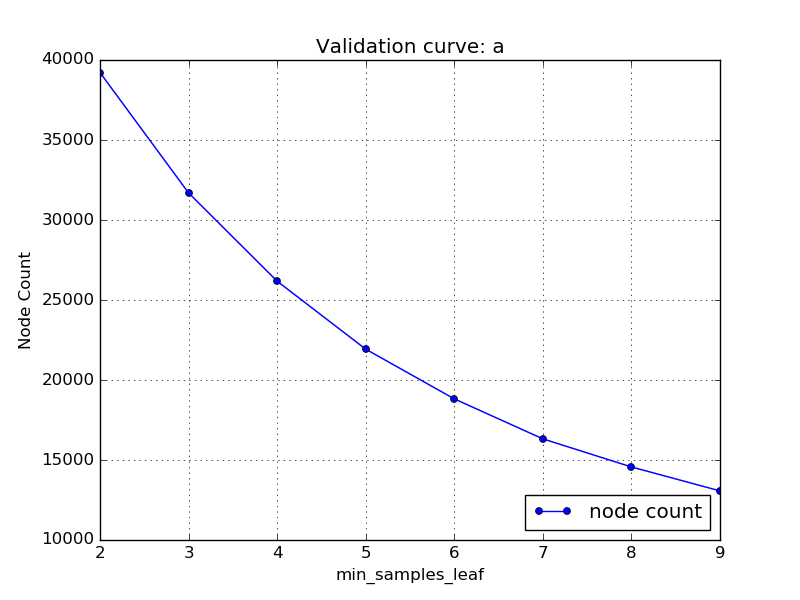
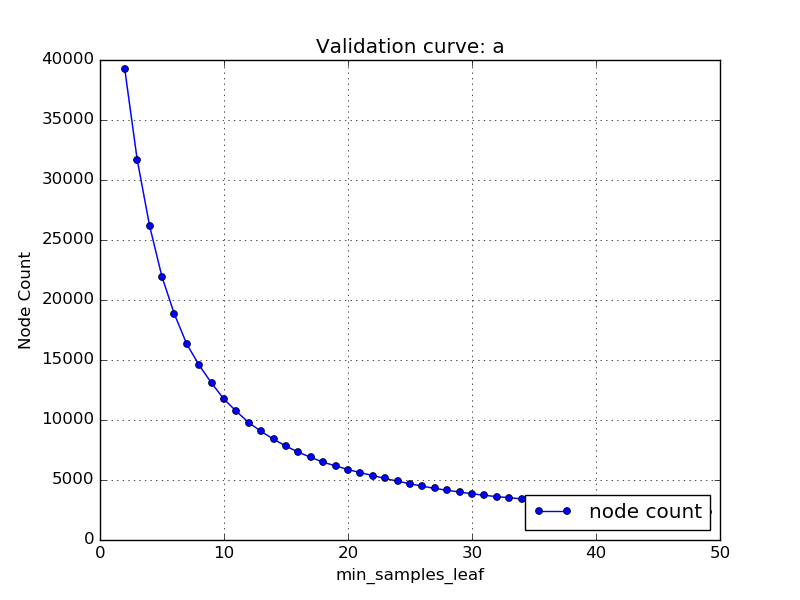
another run

diff --git a/Assignment1/validation_curves.py b/Assignment1/validation_curves.py
@@ -49,11 +49,10 @@ X_train, X_test, y_train, y_test = train_test_split(x,
 
 params_dict = {'min_impurity_split': np.arange(0, 0.5, 0.01),
                'max_depth': np.arange(1, 50, 1),
-               'min_samples_split': np.arange(1, 10, 1),
-               'min_samples_split': np.arange(0.1, 1.0, 0.1),
-               'min_samples_leaf': np.arange(2, 10, 1),
-               'min_weight_fraction_leaf': np.arange(0.0, 0.5, 0.1),
-               'max_leaf_nodes': np.arange(2, 10, 1)}
+               'min_samples_split': np.arange(1, 50, 1),
+               'min_samples_leaf': np.arange(2, 50, 1),
+               'min_weight_fraction_leaf': np.arange(0.0, 0.5, 0.05),
+               'max_leaf_nodes': np.arange(2, 50, 1)}
 #params_dict = {'min_impurity_split': np.arange(0, 0.5, 0.01)}
 
 #param_name = 'max_depth'
